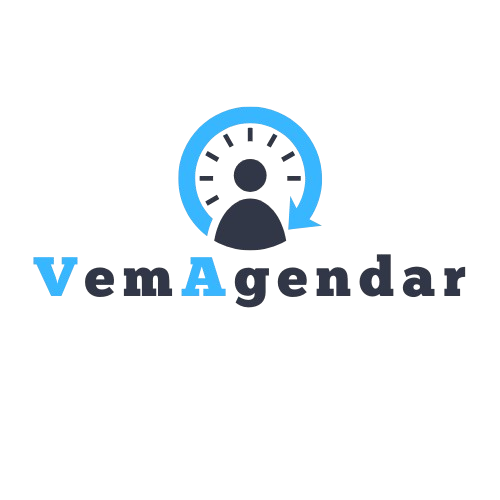
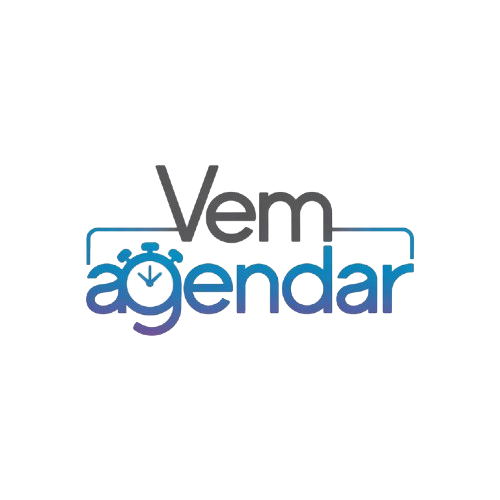
feat: trocar das imagens + melhoria navbar + troca de precos

Changed region(s): [[0.06, 0.21, 0.93, 0.69]]

diff --git a/src/components/Navbar.tsx b/src/components/Navbar.tsx
@@ -40,17 +40,23 @@ const Navbar = () => {
       <style>{`
         .navbar-container .custom-navbar {
           background-color: #003087 !important;
-          padding: 0.75rem 0;
+          padding: 1rem 0;
           transition: all 0.3s ease;
           position: sticky;
           top: 0;
           z-index: 1000;
           box-shadow: 0 2px 8px rgba(0, 0, 0, 0.15);
+          max-height: 70px; /* Fixed navbar height */
+          overflow: hidden; /* Prevent content from expanding navbar */
         }
         .navbar-container .navbar-brand {
           font-size: 1.5rem;
           color: #ffffff !important;
           transition: color 0.3s ease;
+          padding: 0rem !important; /* Removed padding to save space */
+          display: flex;
+          align-items: center; /* Center logo vertically */
+          overflow: hidden; /* Prevent logo from overflowing */
         }
         .navbar-container .navbar-brand:hover {
           color: #e6f0fa !important;
@@ -128,7 +134,15 @@ const Navbar = () => {
           background-color: rgba(77, 171, 247, 0.1);
           color: #003087;
         }
+        .navbar-container .logo-img {
+          width: 120px; /* Increased logo size */
+          height: 120px;
+          object-fit: contain; /* Ensure logo scales without stretching navbar */
+        }
         @media (max-width: 991px) {
+          .navbar-container .custom-navbar {
+            max-height: none; /* Allow navbar to expand on mobile */
+          }
           .navbar-container .navbar-nav {
             padding-top: 1rem;
             padding-bottom: 1rem;
@@ -146,18 +160,20 @@ const Navbar = () => {
             transform: none !important;
             background-color: rgba(255, 255, 255, 0.95);
           }
+          .navbar-container .logo-img {
+            width: 100px; /* Slightly smaller logo on mobile */
+            height: 100px;
+          }
         }
       `}</style>
       <nav className="navbar navbar-expand-lg navbar-dark bg-dark shadow-sm custom-navbar">
         <div className="container-fluid px-4">
           <a className="navbar-brand d-flex align-items-center" href="/">
             <img
-              src="/vem-agendar.ico"
+              src="/vem-agendar.png"
               alt="Logo VemAgendar"
-              className="me-2"
-              style={{ width: "36px", height: "36px", filter: "drop-shadow(0 0 2px rgba(255, 255, 255, 0.3))" }}
+              className="me-2 logo-img" // Added class for specific styling
             />
-            <span className="fw-bold fs-4">VemAgendar</span>
           </a>
           <button
             className="navbar-toggler"

diff --git a/src/views/Planos.tsx b/src/views/Planos.tsx
@@ -264,44 +264,35 @@ function Planos() {
                 features: [
                   "1 empresa",
                   "1 funcionário por empresa",
-                  "Suporte via e-mail",
-                  "Acesso limitado",
-                  "7 dias de uso"
                 ],
               },
               {
                 nome: "Plano Básico",
-                preco: 49,
+                preco: 19.99,
                 duracao: 30,
                 empresas: 1,
-                funcionarios: "15",
+                funcionarios: "5",
                 cor: "#28a745",
                 features: [
                   "1 empresa",
-                  "Até 15 funcionários por empresa",
-                  "Suporte via e-mail",
-                  "Relatórios básicos",
-                  "Painel financeiro",
+                  "Até 5 funcionários por empresa",
                 ],
               },
               {
                 nome: "Plano Profissional",
-                preco: 149,
+                preco: 89.99,
                 duracao: 30,
                 empresas: 5,
-                funcionarios: "25",
+                funcionarios: "15",
                 cor: "#dc3545",
                 features: [
                   "Até 5 empresas",
-                  "Até 25 funcionários por empresa",
-                  "Suporte prioritário",
-                  "Relatórios avançados",
-                  "Painel financeiro",
+                  "Até 15 funcionários por empresa",
                 ],
               },
               {
                 nome: "Plano Corporativo",
-                preco: 299,
+                preco: 149.99,
                 duracao: 30,
                 empresas: 20,
                 funcionarios: "1000",
@@ -309,9 +300,6 @@ function Planos() {
                 features: [
                   "Até 20 empresas",
                   "Até 1000 funcionários por empresa",
-                  "Suporte dedicado",
-                  "Relatórios avançados",
-                  "API access",
                 ],
               },
             ].map((plano, index) => (

diff --git a/src/views/Home.tsx b/src/views/Home.tsx
@@ -371,19 +371,19 @@ function Home() {
             {[
               {
                 title: "Básico",
-                price: "R$ 49/mês",
+                price: "R$ 19.99/mês",
                 desc: "Ideal para pequenos negócios",
-                features: ["1 empresa", "15 funcionários por empresa"],
+                features: ["1 empresa", "5 funcionários por empresa"],
               },
               {
                 title: "Profissional",
-                price: "R$ 149/mês",
+                price: "R$ 89.99/mês",
                 desc: "Perfeito para negócios em crescimento",
-                features: ["5 empresas", "25 funcionários por empresa"],
+                features: ["5 empresas", "15 funcionários por empresa"],
               },
               {
                 title: "Corporativo",
-                price: "R$ 299/mês",
+                price: "R$ 149.99/mês",
                 desc: "Para grandes empresas",
                 features: ["20 empresas", "1000 funcionários por empresa"],
               },
